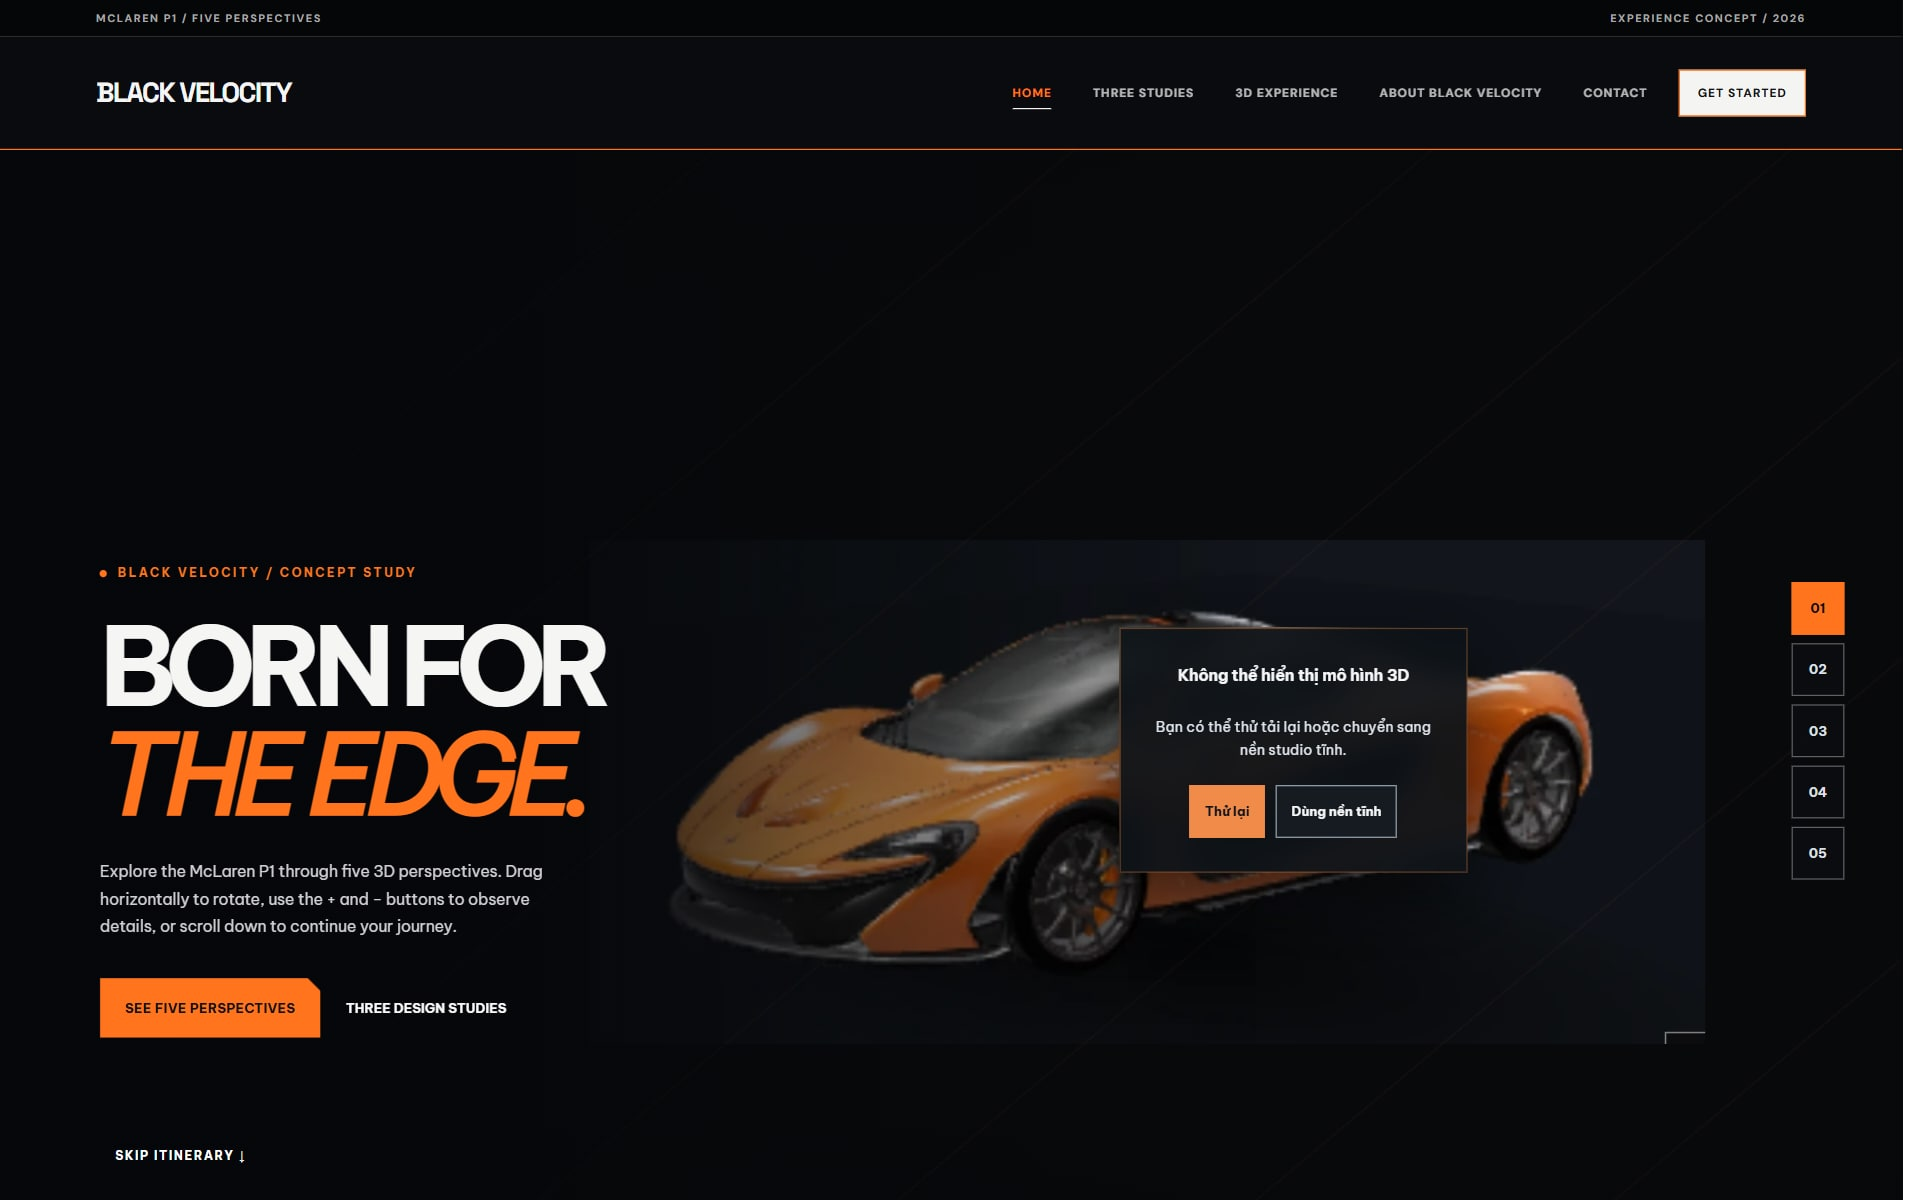
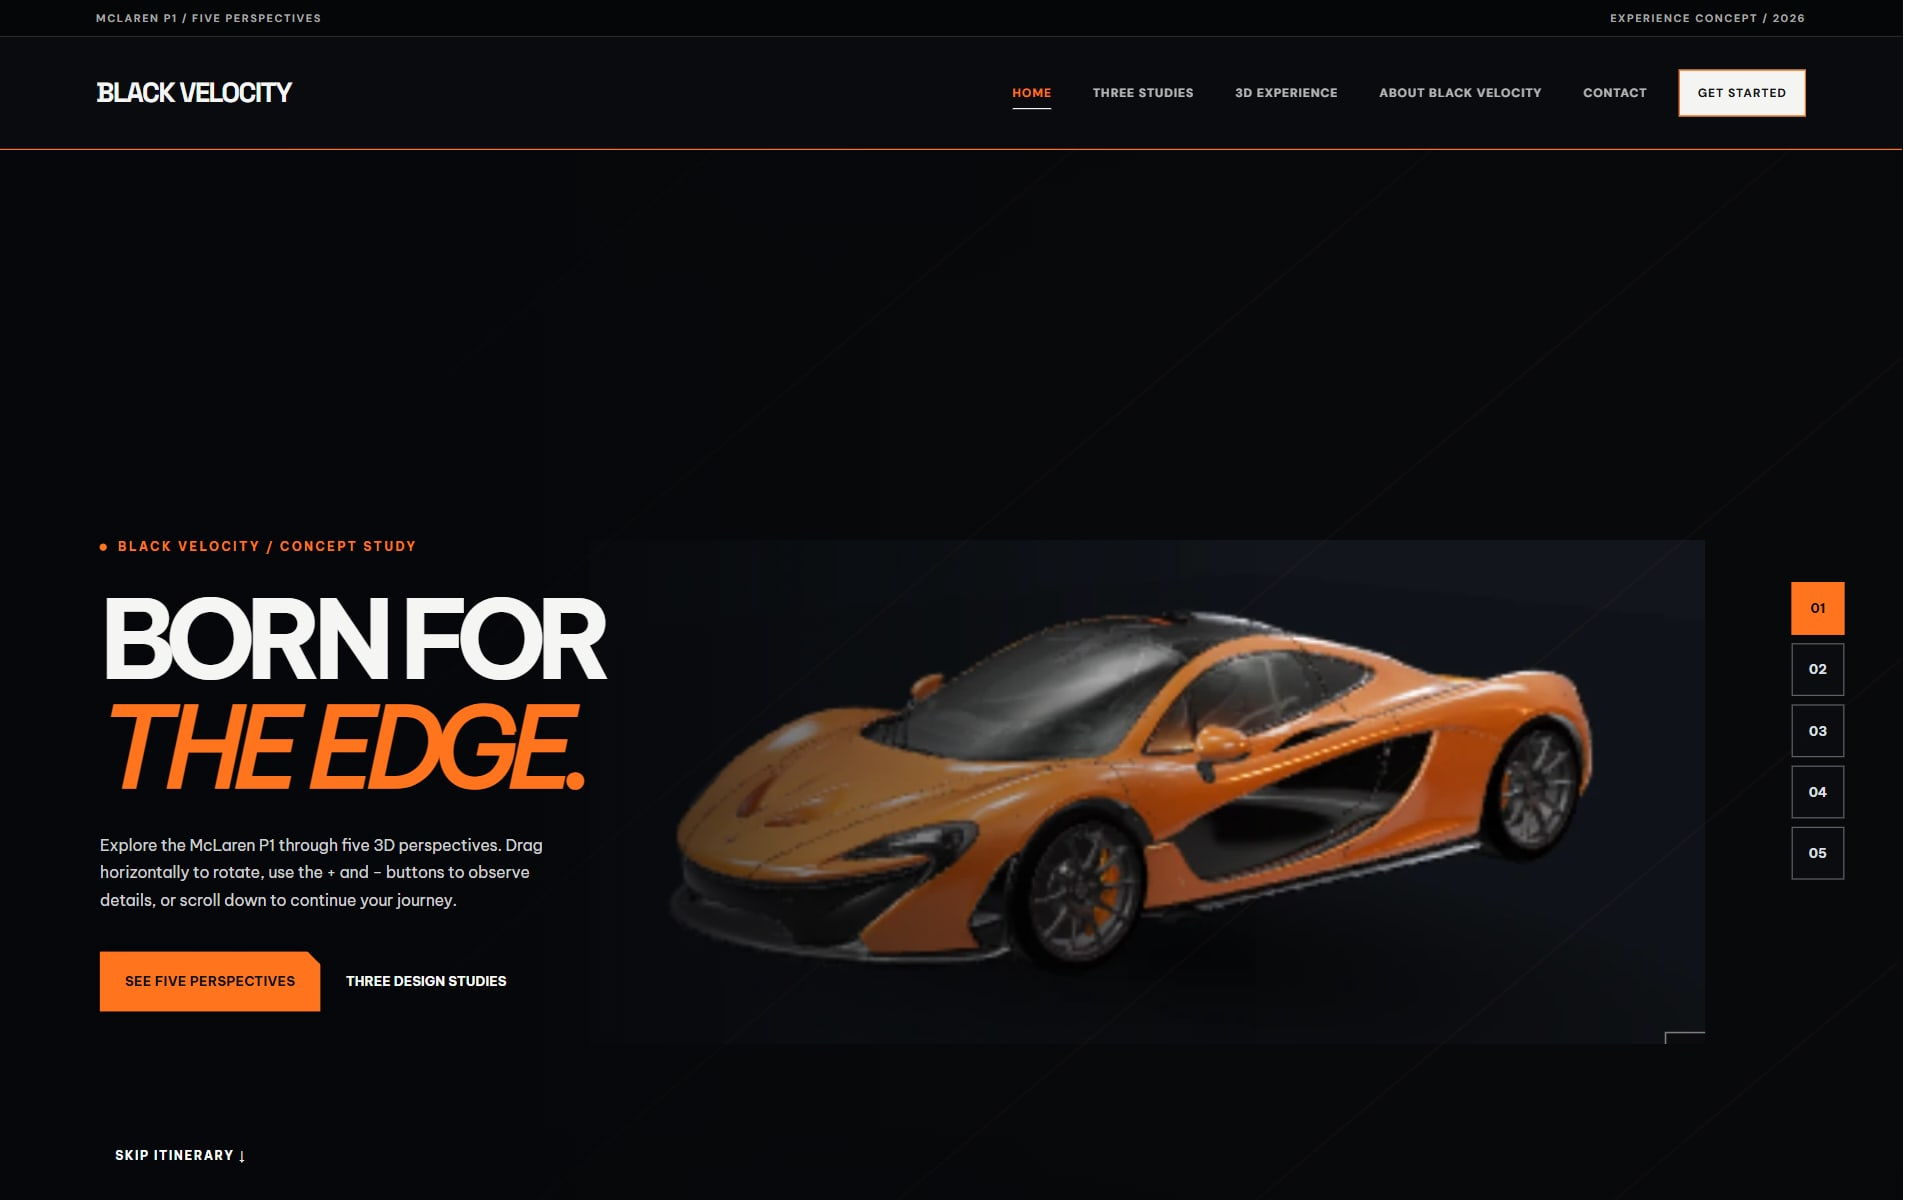
fix(athena): synchronize bilingual preview images across site cards

Changed region(s): [[0.0312, 0.4317, 0.3125, 0.8633], [0.5625, 0.5242, 0.7812, 0.7708]]

diff --git a/components/home/HomeTemplateShowcase.tsx b/components/home/HomeTemplateShowcase.tsx
@@ -1,9 +1,9 @@
 "use client";
 import {useState} from "react";
 import Link from "next/link";
-import Image from "next/image";
 import {getTemplate,templates} from "@/lib/templates";
-import {getTemplatePreviewSrc} from "@/lib/template-preview-image";
+import {LocalizedTemplateImage} from "@/components/templates/LocalizedTemplateImage";
+import {useAthenaLanguage} from "@/components/i18n/AthenaLanguageProvider";
 const groups=[
  {id:"featured",label:"Nổi bật",slugs:["creative-studio","modern-corporate","commerce-standard","auto-showroom"]},
  {id:"business",label:"Doanh nghiệp",slugs:["modern-corporate","construction-firm","saas-product","architecture-studio"]},
@@ -12,9 +12,15 @@ const groups=[
  {id:"lifestyle",label:"Đời sống",slugs:["hospitality-booking","wellness-clinic","property-showcase","education-platform"]}
 ] as const;
 export function HomeTemplateShowcase(){
+ const {language}=useAthenaLanguage();
  const [category,setCategory]=useState<(typeof groups)[number]["id"]>("featured");
  const group=groups.find(item=>item.id===category)??groups[0];
  const items=group.slugs.map(slug=>getTemplate(slug)).filter((x):x is NonNullable<typeof x>=>Boolean(x));
+ const href=(item:NonNullable<ReturnType<typeof getTemplate>>)=>{
+  const excluded=["wellness-clinic","property-showcase","education-platform","pet-store","construction-firm"];
+  if(excluded.includes(item.slug))return item.demoPath;
+  return item.demoPath+(item.demoPath.includes("?")?"&":"?")+"lang="+language;
+ };
  return <section className="home-demo-section section-space" id="website-mau" aria-labelledby="home-demo-title">
   <div className="container home-demo-layout">
    <div className="home-demo-intro reveal">
@@ -29,14 +35,14 @@ export function HomeTemplateShowcase(){
      {groups.map(g=><button type="button" key={g.id} aria-pressed={category===g.id} onClick={()=>setCategory(g.id)}>{g.label}</button>)}
     </div>
     <div className="home-demo-cards" aria-live="polite">{items.map((item,i)=><article className="home-demo-card" key={item.slug}>
-      <Link href={item.demoPath} className="home-demo-picture" aria-label={"Xem demo "+item.title}>
-       <Image src={getTemplatePreviewSrc(item.slug)} alt={"Xem trước website "+item.title} fill sizes="(max-width:600px) 100vw, (max-width:1100px) 50vw, 33vw" />
+      <Link href={href(item)} className="home-demo-picture" aria-label={"Xem demo "+item.title}>
+       <LocalizedTemplateImage slug={item.slug} altVi={"Xem trước website "+item.title} altEn={"Website preview: "+item.title} fill sizes="(max-width:600px) 100vw, (max-width:1100px) 50vw, 33vw" />
        <span className="home-demo-open" aria-hidden="true">Mở website <span></span></span>
       </Link>
       <div className="home-demo-meta"><span>{String(i+1).padStart(2,"0")} / {item.industry}</span><span>{item.style}</span></div>
-      <h3><Link href={item.demoPath}>{item.title}</Link></h3>
+      <h3><Link href={href(item)}>{item.title}</Link></h3>
       <p>{item.description}</p>
-      <Link className="home-demo-visit" href={item.demoPath}>Trải nghiệm website <span aria-hidden="true">→</span></Link>
+      <Link className="home-demo-visit" href={href(item)}>Trải nghiệm website <span aria-hidden="true">→</span></Link>
      </article>)}</div>
     <div className="home-demo-footer"><span>Muốn tạo một thiết kế riêng theo thương hiệu?</span><Link href="/contact">Thiết kế cho thương hiệu của bạn</Link></div>
    </div>

diff --git a/app/services/web-development/templates/page.tsx b/app/services/web-development/templates/page.tsx
@@ -3,6 +3,7 @@ import Link from "next/link";
 import {TemplateGallery} from "@/components/templates/TemplateGallery";
 import {templates,templateIndustries,templateStyles} from "@/lib/templates";
 import {getTemplatePreviewSrc} from "@/lib/template-preview-image";
+import {LocalizedTemplateImage} from "@/components/templates/LocalizedTemplateImage";
 
 export const metadata={
  title:"Thư viện mẫu website | Athena Studio",
@@ -19,7 +20,7 @@ export default function TemplatesPage(){
      <div className="dna-library-actions"><a className="dna-button dna-button-primary" href="#template-collection">Khám phá mẫu</a><Link className="dna-button dna-button-quiet" href="/contact?service=web-development">Trao đổi ý tưởng</Link></div>
     </div>
     <div className="dna-library-gallery" aria-label="Ảnh giao diện từ hai website mẫu của Athena">
-     <div className="dna-library-frame dna-library-frame-main"><div className="dna-library-frame-top"><i/><i/><i/><span>creative / preview</span></div><div className="dna-library-frame-media"><Image src={getTemplatePreviewSrc("creative-studio")} alt="Ảnh chụp website mẫu Creative Studio" fill priority sizes="(max-width:760px) 82vw, 45vw" style={{objectFit:"contain",objectPosition:"center top"}}/></div></div>
+     <div className="dna-library-frame dna-library-frame-main"><div className="dna-library-frame-top"><i/><i/><i/><span>creative / preview</span></div><div className="dna-library-frame-media"><LocalizedTemplateImage slug="creative-studio" altVi="Ảnh chụp website mẫu Creative Studio" altEn="Creative Studio website screenshot" fill priority sizes="(max-width:760px) 82vw, 45vw" style={{objectFit:"contain",objectPosition:"center top"}}/></div></div>
      <div className="dna-library-frame dna-library-frame-side"><div className="dna-library-frame-top"><i/><i/><i/><span>pet / preview</span></div><div className="dna-library-frame-media"><picture><source media="(max-width:760px)" type="image/webp" srcSet="/template-previews/pet-store-hero-mobile.webp?v=20261103"/><source media="(min-width:761px)" type="image/webp" srcSet="/template-previews/pet-store-hero-desktop.webp?v=20261103-01"/><Image src={getTemplatePreviewSrc("pet-store")} alt="Ảnh chụp giao diện Poppy & Co. trong khung trình duyệt" fill sizes="(max-width:760px) 35vw, 20vw" style={{objectFit:"contain",objectPosition:"center"}}/></picture></div></div>
      <div className="dna-library-stamp">{String(templates.length).padStart(2,"0")} <span>WEBSITE<br/>CONCEPTS</span></div>
     </div>

diff --git a/components/home/AthenaHeroStage.tsx b/components/home/AthenaHeroStage.tsx
@@ -1,14 +1,16 @@
 "use client";
 import {useState} from "react";
-import Image from "next/image";
+import {LocalizedTemplateImage} from "@/components/templates/LocalizedTemplateImage";
+import {useAthenaLanguage} from "@/components/i18n/AthenaLanguageProvider";
 import Link from "next/link";
 
 const previews=[
- {slug:"creative-studio",name:"Creative Studio",image:"/template-previews/creative-studio.jpg",tag:"01 / STUDIO"},
- {slug:"fashion-archive",name:"Fashion Archive",image:"/template-previews/fashion-archive.jpg",tag:"02 / FASHION"}
+ {slug:"creative-studio",name:"Creative Studio",tag:"01 / STUDIO"},
+ {slug:"fashion-archive",name:"Fashion Archive",tag:"02 / FASHION"}
 ] as const;
 export function AthenaHeroStage(){
  const [active,setActive]=useState(0);
+ const {language}=useAthenaLanguage();
  return <div className="dna-hero-art dna02-preview-stage" aria-label="Khám phá hai mẫu website thực tế">
   <div className="dna-hero-glow" aria-hidden="true"/>
   <div className="dna02-preview-stack">
@@ -16,10 +18,10 @@ export function AthenaHeroStage(){
      className={"dna-hero-window dna02-preview-window "+(active===i?"is-front":"is-back")}
      onClick={()=>setActive(i)} aria-pressed={active===i} aria-label={"Chọn bản xem trước "+item.name}>
      <span className="dna-hero-browser"><span><i/><i/><i/></span><small>{item.slug} / preview</small></span>
-     <span className="dna-hero-window-picture"><Image src={item.image} alt={"Giao diện mẫu "+item.name} fill priority={i===0} sizes="(max-width:760px) 75vw, 38vw" style={{objectFit:"cover",objectPosition:"center top"}}/></span>
+     <span className="dna-hero-window-picture"><LocalizedTemplateImage slug={item.slug} altVi={"Giao diện mẫu "+item.name} altEn={"Preview of "+item.name} fill priority={i===0} sizes="(max-width:760px) 75vw, 38vw" style={{objectFit:"cover",objectPosition:"center top"}}/></span>
      <span className="dna02-preview-tag">{item.tag}</span>
    </button>)}
   </div>
-  <div className="dna-hero-art-bottom"><span>CHỌN MẪU ĐỂ XEM / 01–02</span><Link href={"/template-demos/"+previews[active].slug}>Trải nghiệm {previews[active].name} <span aria-hidden="true">→</span></Link></div>
+  <div className="dna-hero-art-bottom"><span>CHỌN MẪU ĐỂ XEM / 01–02</span><Link href={"/template-demos/"+previews[active].slug+"?lang="+language}>Trải nghiệm {previews[active].name} <span aria-hidden="true">→</span></Link></div>
  </div>;
 }

diff --git a/components/templates/TemplatePreviewControls.tsx b/components/templates/TemplatePreviewControls.tsx
@@ -1,17 +1,21 @@
 "use client";
 import {useState} from "react";
 import type {Template} from "@/lib/templates";
+import {useAthenaLanguage} from "@/components/i18n/AthenaLanguageProvider";
 export function TemplatePreviewControls({template}:{template:Template}){
  const [device,setDevice]=useState<"desktop"|"mobile">("desktop");
+ const {language}=useAthenaLanguage();
+ const excluded=["wellness-clinic","property-showcase","education-platform","pet-store","construction-firm"];
+ const demo=template.demoPath+(excluded.includes(template.slug)?"":"?lang="+language);
  return <div className="template-live-preview">
   <div className="template-preview-controls" role="group" aria-label="Kích thước bản xem trước">
    <span>DEMO WEBSITE TƯƠNG TÁC</span>
    <button type="button" aria-pressed={device==="desktop"} onClick={()=>setDevice("desktop")}>Máy tính</button>
    <button type="button" aria-pressed={device==="mobile"} onClick={()=>setDevice("mobile")}>Điện thoại</button>
-   <a href={template.demoPath} target="_blank" rel="noopener noreferrer">Mở toàn trang </a>
+   <a href={demo} target="_blank" rel="noopener noreferrer">Mở toàn trang </a>
   </div>
   <div className={"template-detail-iframe template-detail-iframe-"+device}>
-   <iframe src={template.demoPath+"?embed=1"} title={"Website demo: "+template.title} loading="lazy"/>
+   <iframe key={template.slug+"-"+language} src={demo+(demo.includes("?")?"&":"?")+"embed=1"} title={"Website demo: "+template.title} loading="lazy"/>
   </div>
  </div>;
 }

diff --git a/components/home/AthenaServiceShowcase.tsx b/components/home/AthenaServiceShowcase.tsx
@@ -1,4 +1,4 @@
-import Image from "next/image";
+import {LocalizedTemplateImage} from "@/components/templates/LocalizedTemplateImage";
 import Link from "next/link";
 import {offerings} from "@/lib/offerings";
 
@@ -8,7 +8,7 @@ const services=offerings.filter(item=>item.slug!=="micro-saas");
 function ServiceScene({slug}:{slug:string}){
  if(slug==="web-development")return <div className="dna-scene dna-scene-web" aria-label="Ảnh giao diện website mẫu do Athena thiết kế">
   <div className="dna-browser-bar"><i/><i/><i/><span>studio / website preview</span></div>
-  <div className="dna-browser-preview"><Image src="/template-previews/creative-studio.jpg" alt="Bản xem trước SORA (Creative Studio) trong thư viện giao diện Athena" fill sizes="(max-width:760px) 92vw, (max-width:1020px) 45vw, 30vw" style={{objectFit:"contain",objectPosition:"center"}}/></div>
+  <div className="dna-browser-preview"><LocalizedTemplateImage slug="creative-studio" altVi="Bản xem trước SORA (Creative Studio) trong thư viện giao diện Athena" altEn="SORA (Creative Studio) website preview" fill sizes="(max-width:760px) 92vw, (max-width:1020px) 45vw, 30vw" style={{objectFit:"contain",objectPosition:"center"}}/></div>
   <span className="dna-scene-tag">DESIGN / DEVELOPMENT</span>
  </div>;
  if(slug==="website-care")return <div className="dna-scene dna-scene-care" aria-label="Quy trình chăm sóc website: kiểm tra, xác định ưu tiên, khắc phục">

diff --git a/components/templates/TemplatePreview.tsx b/components/templates/TemplatePreview.tsx
@@ -8,7 +8,7 @@ export function TemplatePreview({template,device="desktop",language="vi"}:{templ
  return <div className="template-device-frame" data-device={device}>
   <div className="template-thumbnail">
    <div className="template-thumbnail-browser" aria-hidden="true"><span className="template-browser-dots"><i/><i/><i/></span><span>{template.slug}.preview</span><span></span></div>
-   <div className="template-thumbnail-screen"><Image className="template-thumbnail-image" src={screenshot} alt={(language==="en"?"Screenshot of the ":"Ảnh chụp giao diện website ")+template.title} fill sizes="(max-width: 640px) 100vw, (max-width: 1050px) 50vw, 33vw" priority={false}/></div>
+   <div className="template-thumbnail-screen"><Image key={template.slug+"-"+language} className="template-thumbnail-image" src={screenshot} alt={(language==="en"?"Screenshot of the ":"Ảnh chụp giao diện website ")+template.title} fill sizes="(max-width: 640px) 100vw, (max-width: 1050px) 50vw, 33vw" priority={false}/></div>
   </div>
  </div>;
 }

diff --git a/components/templates/LocalizedTemplateImage.tsx b/components/templates/LocalizedTemplateImage.tsx
@@ -1,0 +1,13 @@
+"use client";
+import Image,{type ImageProps} from "next/image";
+import {useAthenaLanguage} from "@/components/i18n/AthenaLanguageProvider";
+import {getTemplatePreviewSrc} from "@/lib/template-preview-image";
+
+/** Keep image assets in sync with Athena's language control, including embedded text. */
+export function LocalizedTemplateImage({
+ slug,altVi,altEn,...props
+}:{slug:string;altVi:string;altEn:string}&Omit<ImageProps,"src"|"alt">){
+ const {language}=useAthenaLanguage();
+ return <Image {...props} key={slug+"-"+language} src={getTemplatePreviewSrc(slug,language)}
+  alt={language==="en"?altEn:altVi}/>;
+}
